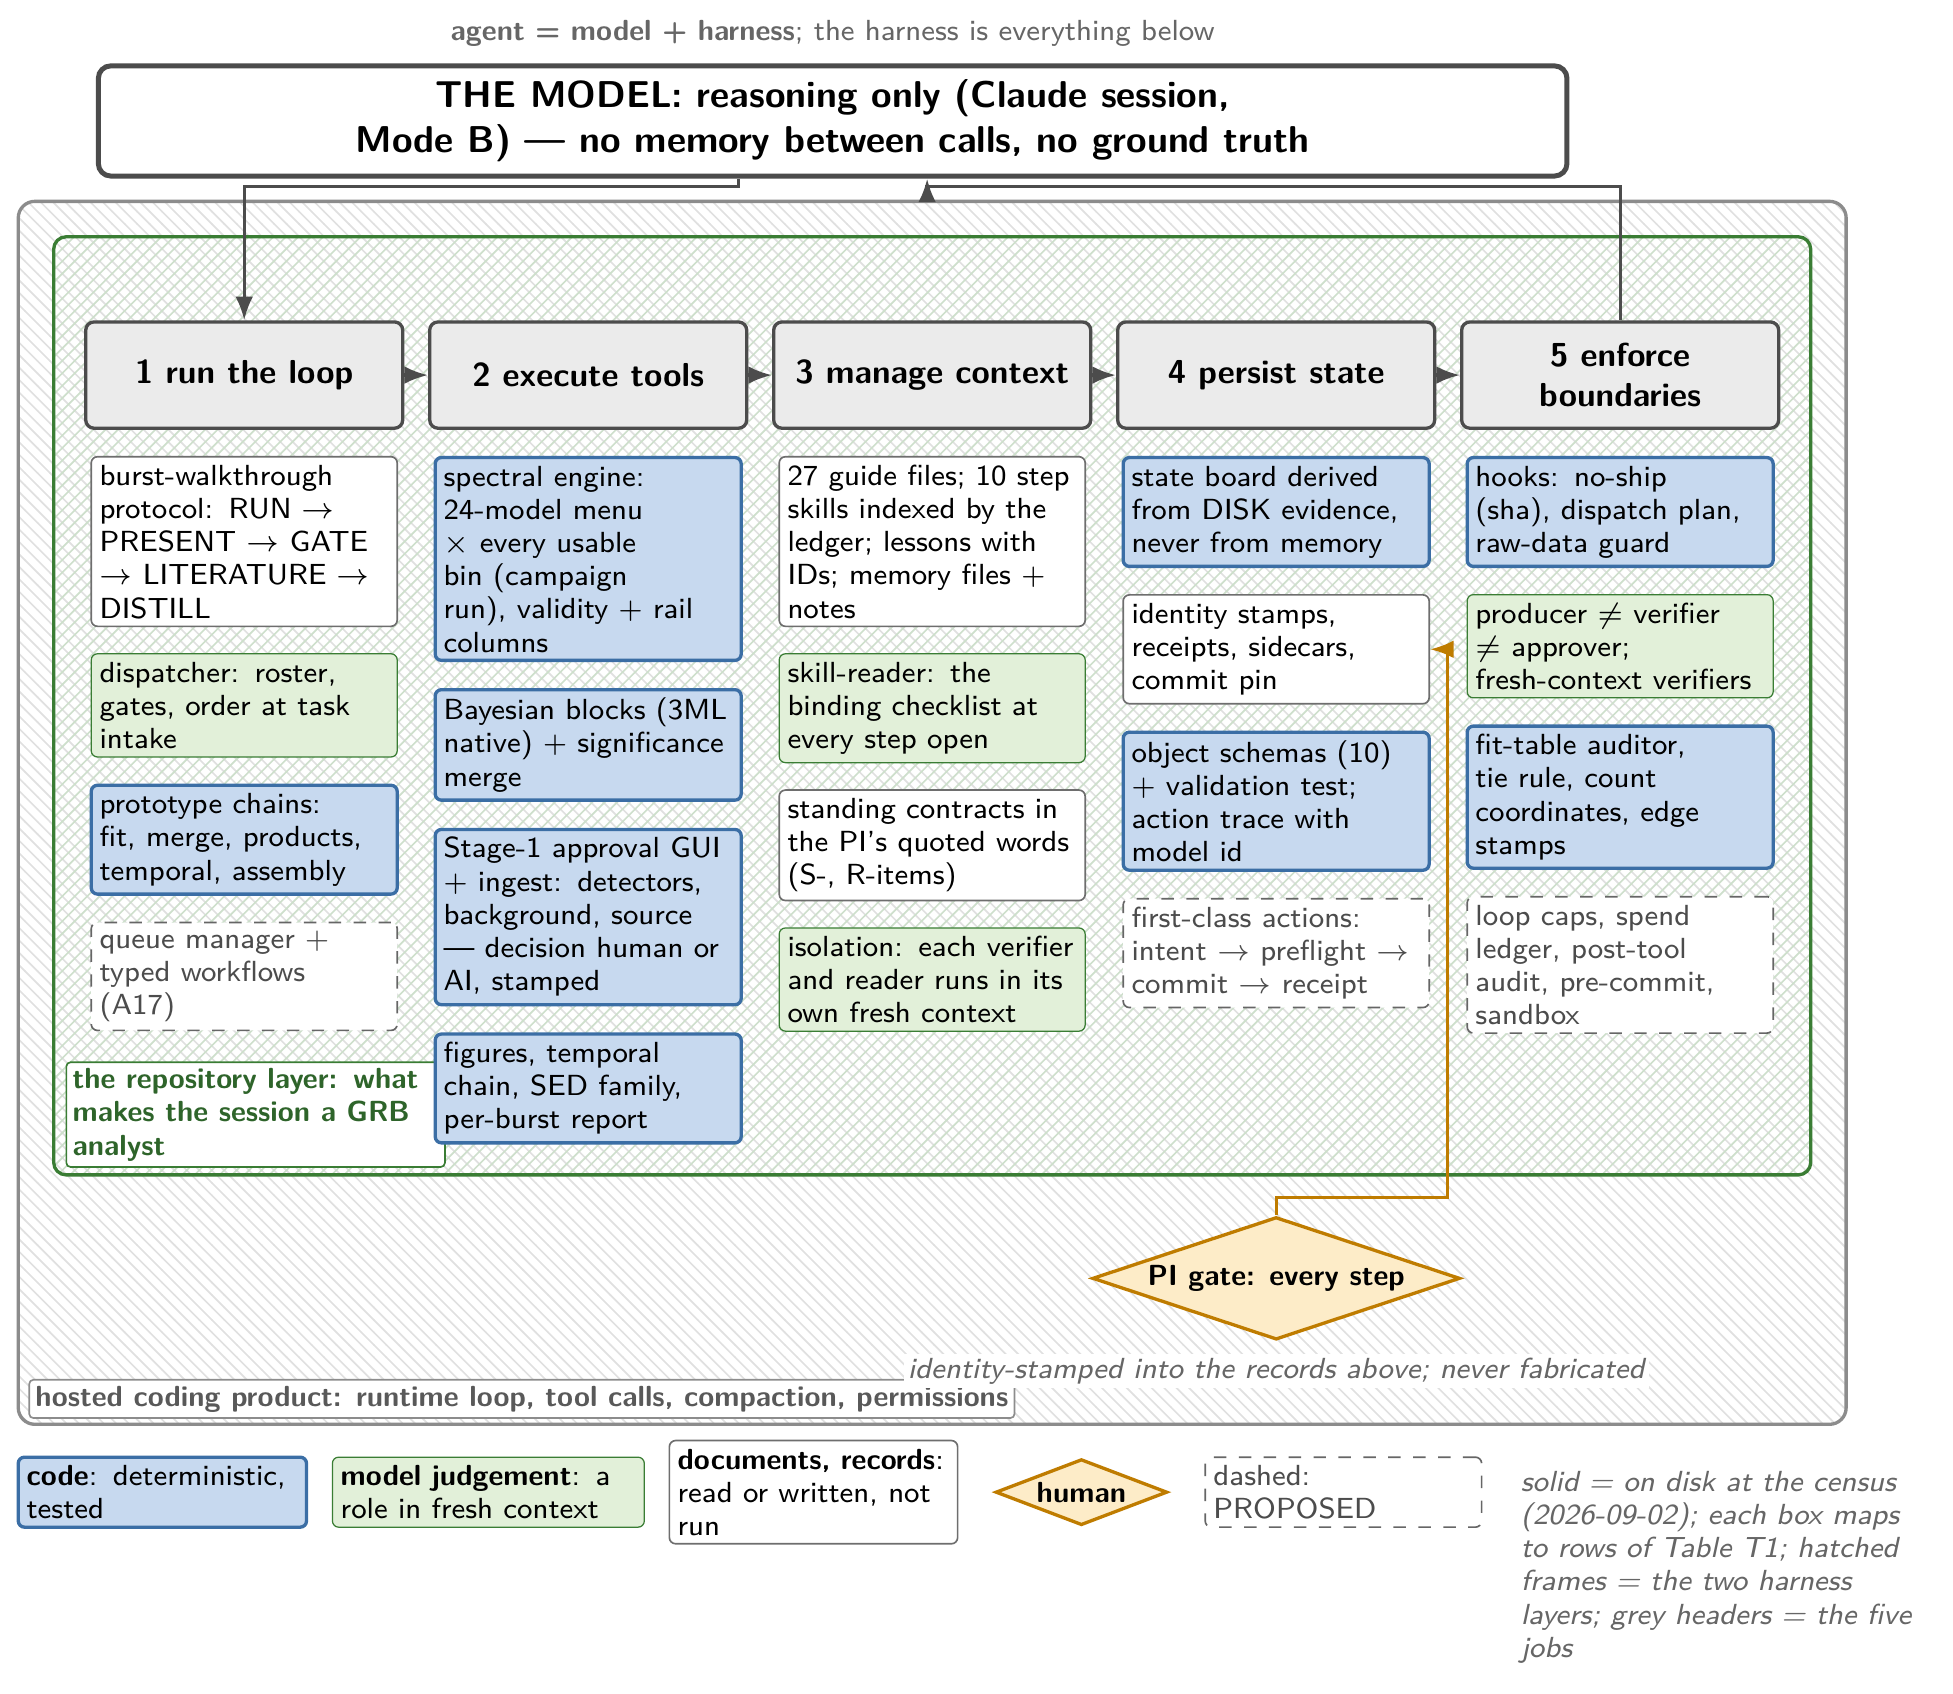
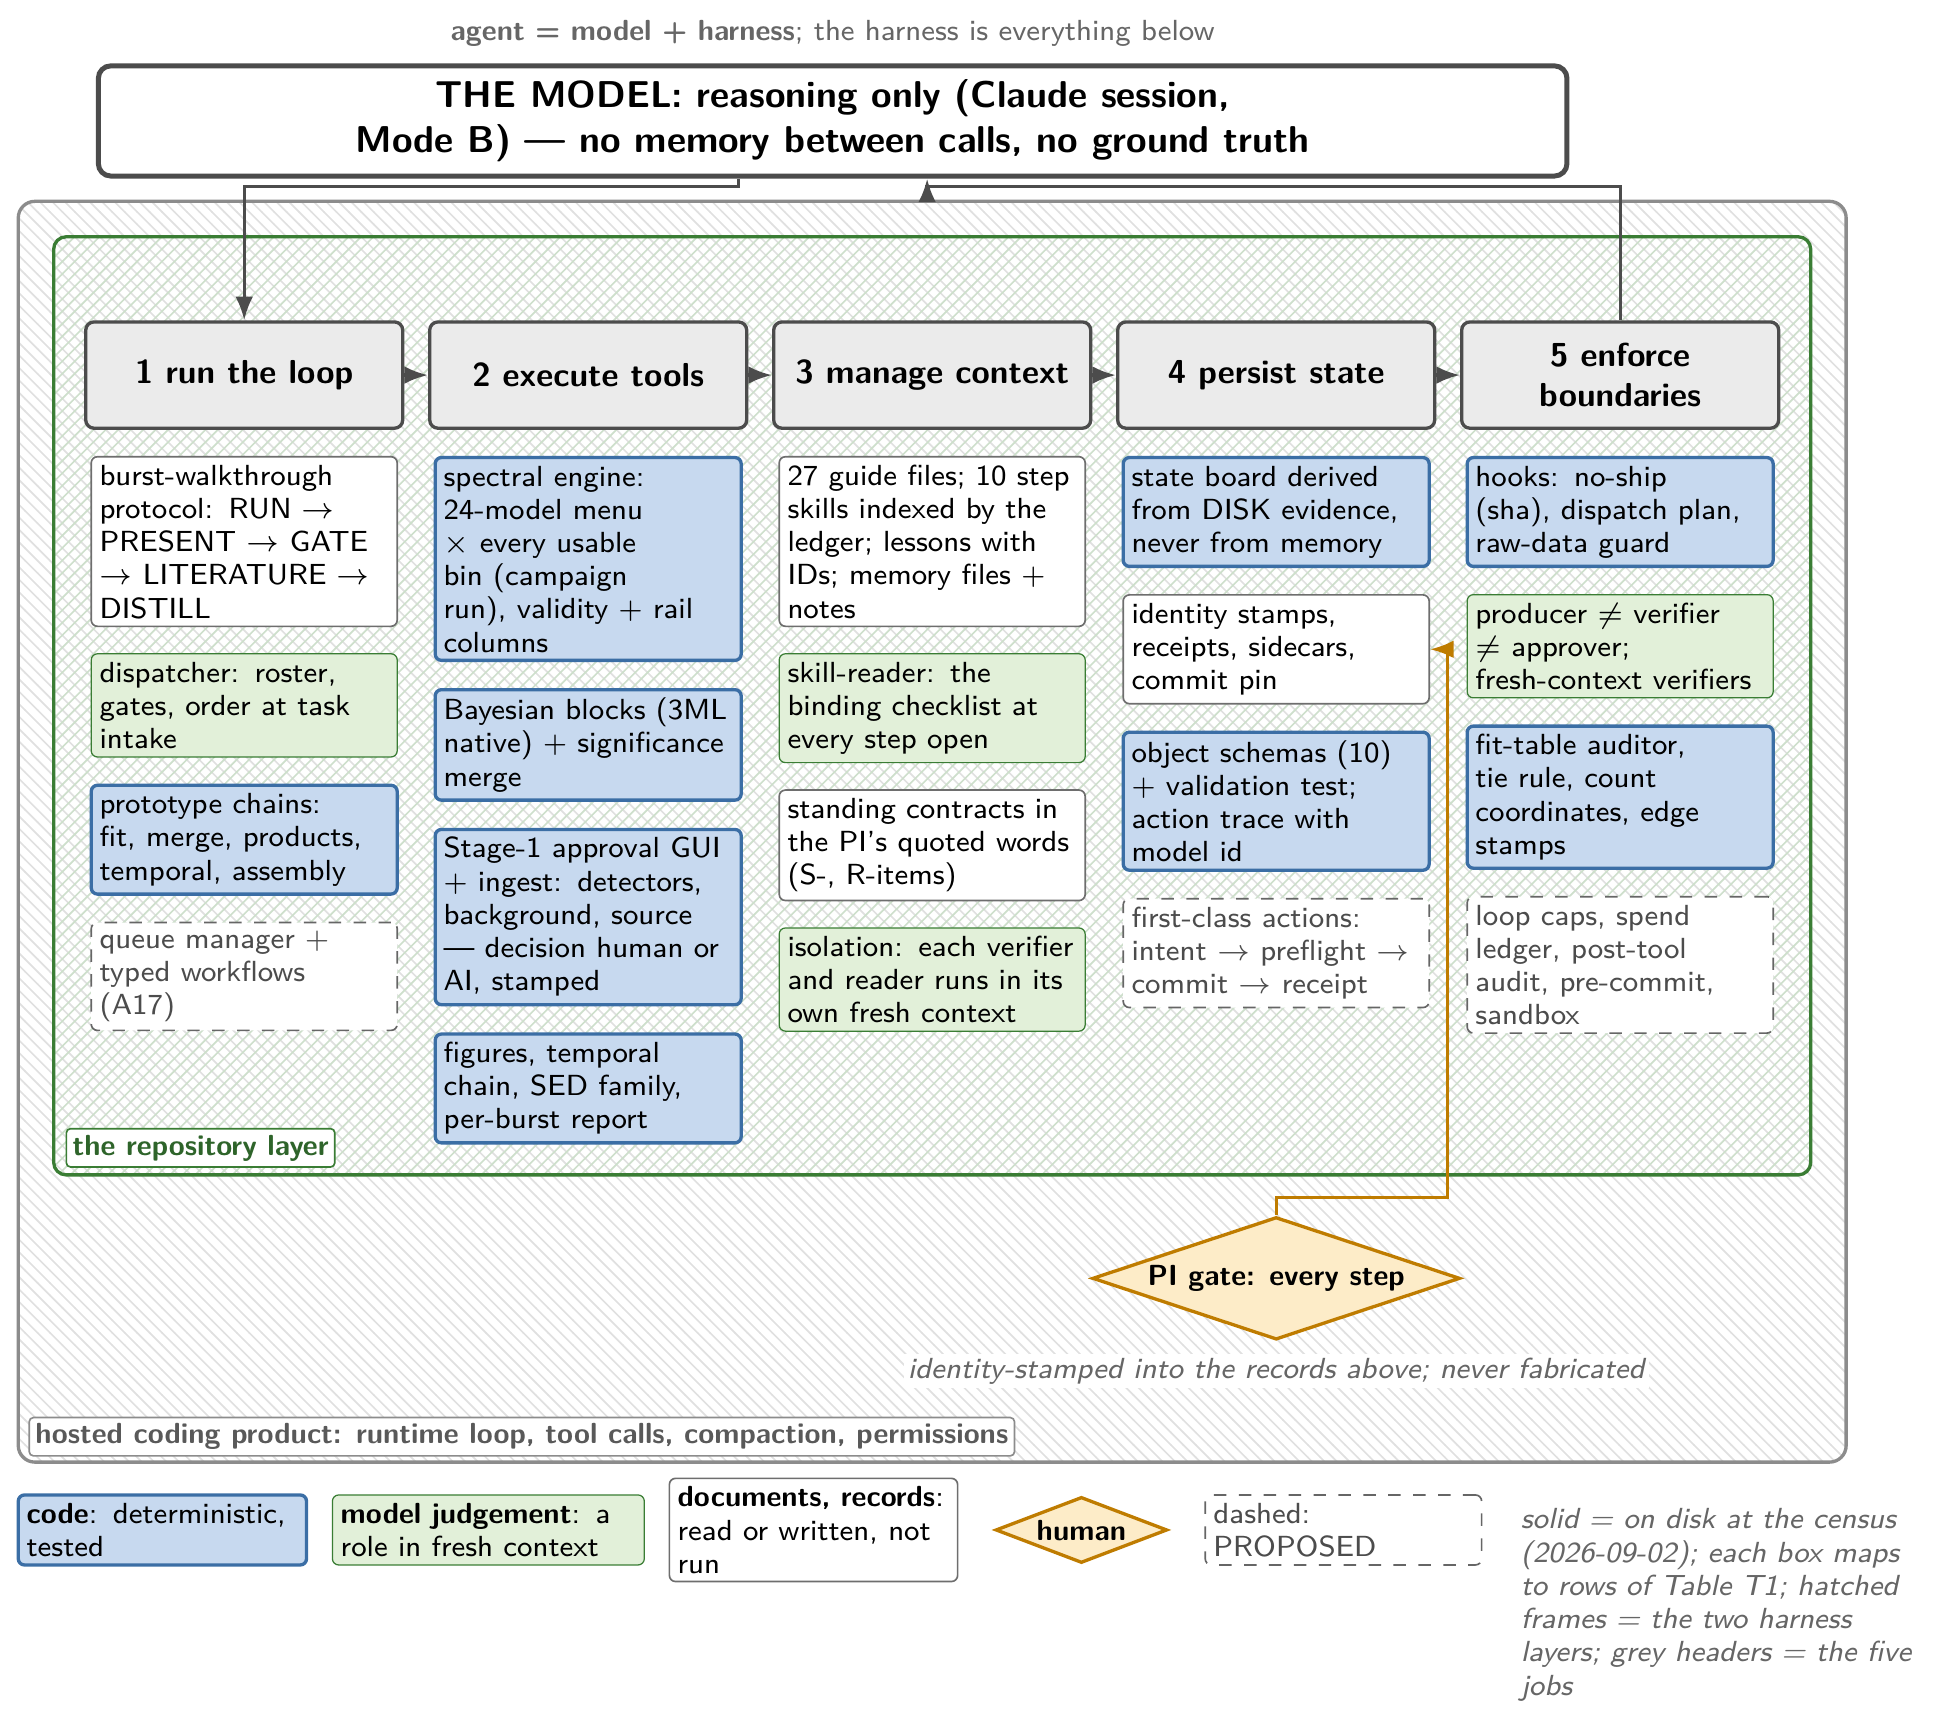
F1 round 5 (footroom under the diamond caption; one-line repository label) — gate in flight; ledger: r4 FAIL
Claude-Session: https://claude.ai/code/session_014ZKU13JNR6E9CyYseiK5df

Changed region(s): [[0.0, 0.0307, 0.9683, 0.9823]]

diff --git a/paper_agentic/figures/fig_F1_harness_anatomy.tex b/paper_agentic/figures/fig_F1_harness_anatomy.tex
@@ -86,13 +86,14 @@
 \begin{scope}[on background layer]
   \coordinate (headroom) at ($(loop.north)+(0,4.5mm)$);
   \node[inner sep=2.5mm, fit=(headroom)(loop)(bound)(l4)(b4)(t1)(t4)] (repo) {};
+  \coordinate (footroom) at ($(pilab.south)+(0,-3.2mm)$);
   \node[draw=black!45, thick, rounded corners=4pt, pattern=north west lines, pattern color=black!12, inner sep=3mm,
-        fit=(repo)(pi)(pilab)] (host) {};
+        fit=(repo)(pi)(pilab)(footroom)] (host) {};
   \node[draw=agentline, thick, rounded corners=3pt, pattern=north east lines, pattern color=agentline!25, inner sep=0, fit=(repo)] {};
   \node[fill=white, draw=black!45, rounded corners=1pt, inner sep=1.5pt, font=\sffamily\scriptsize\bfseries, text=black!65,
         anchor=south west] at ($(host.south west)+(1mm,0.6mm)$) {hosted coding product: runtime loop, tool calls, compaction, permissions};
   \node[fill=white, draw=agentline, rounded corners=1pt, inner sep=1.5pt, font=\sffamily\scriptsize\bfseries, text=agentline!80!black,
-        text width=31mm, align=left, execute at begin node=\nohyph, anchor=south west] at ($(repo.south west)+(1mm,0.6mm)$) {the repository layer: what makes the session a GRB analyst};
+        anchor=south west] at ($(repo.south west)+(1mm,0.6mm)$) {the repository layer};
 \end{scope}
 
 % legend row (below the outer enclosure)

diff --git a/paper_agentic/figures/GATE_LEDGER.md b/paper_agentic/figures/GATE_LEDGER.md
@@ -1,6 +1,6 @@
 # Paper v3 diagram gate ledger — TRACKED COPY
 
-Copied from `results/campaign/agentfigs/VISION_QC.md` (gitignored under results/*) at 2026-09-03T18:00:26Z, so the approval record of the manuscript's diagrams is commit-recoverable (Codex supervisor review D4, 2026-09-02). The results/ file remains the ledger the no-ship hook reads; this copy is refreshed by the building session whenever a diagram row changes.
+Copied from `results/campaign/agentfigs/VISION_QC.md` (gitignored under results/*) at 2026-09-03T18:11:24Z, so the approval record of the manuscript's diagrams is commit-recoverable (Codex supervisor review D4, 2026-09-02). The results/ file remains the ledger the no-ship hook reads; this copy is refreshed by the building session whenever a diagram row changes.
 
 ## Paper v3 diagrams — gate ledger appended 2026-09-03T03:32:12Z by the building session (verdicts by fresh-context figure-verifier agents; producer = building session)
 
@@ -60,4 +60,5 @@ Tie-break (F1 colour gate, 2026-09-03): a DOCUMENT the model reads (protocol, gu
[2 lines of base64/hex data omitted]
 
[3 lines of base64/hex data omitted]
